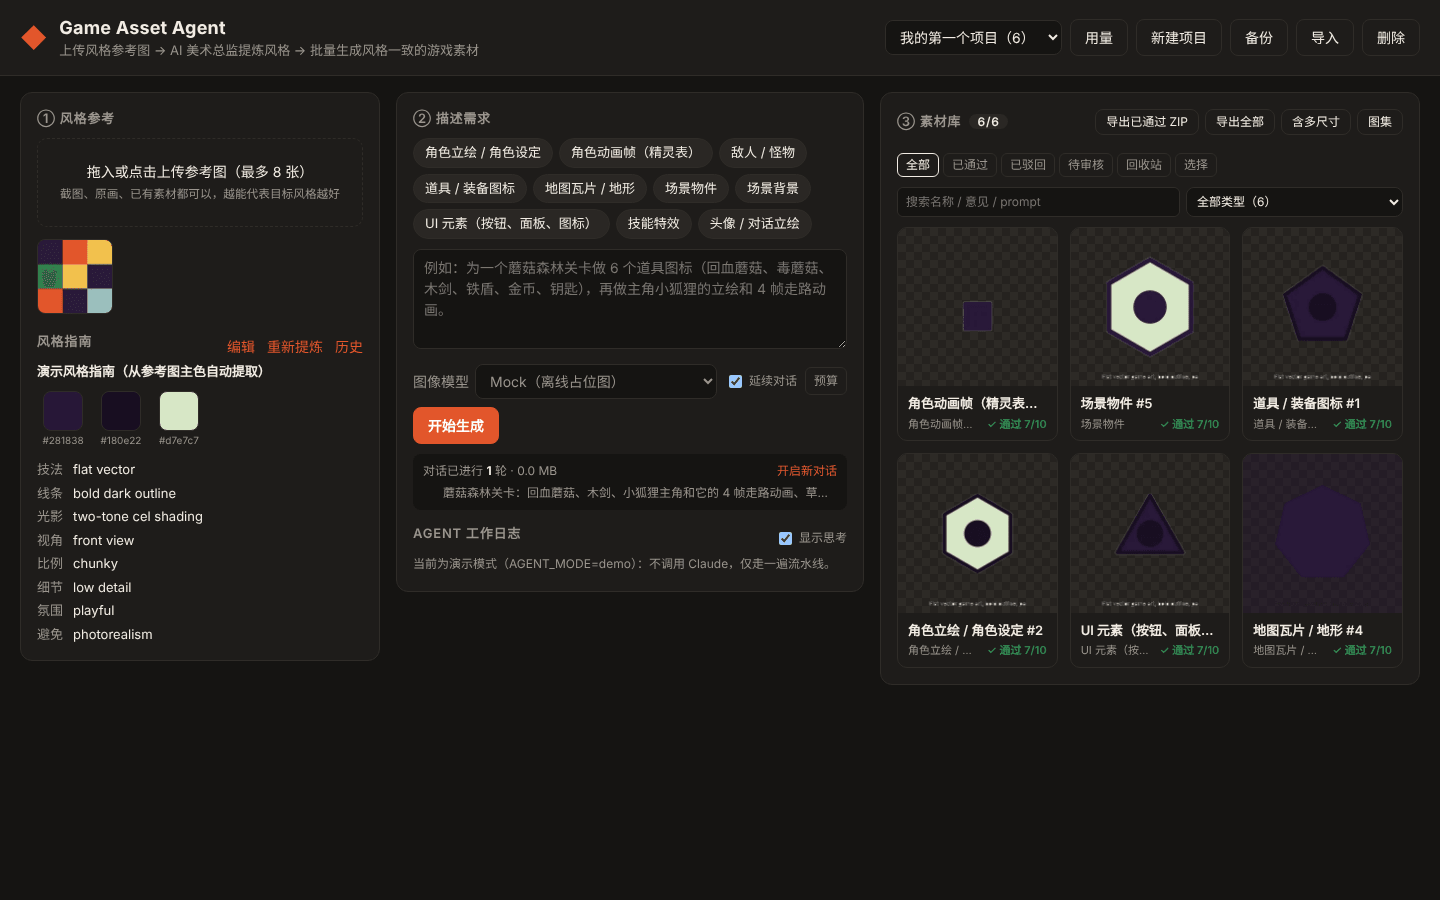
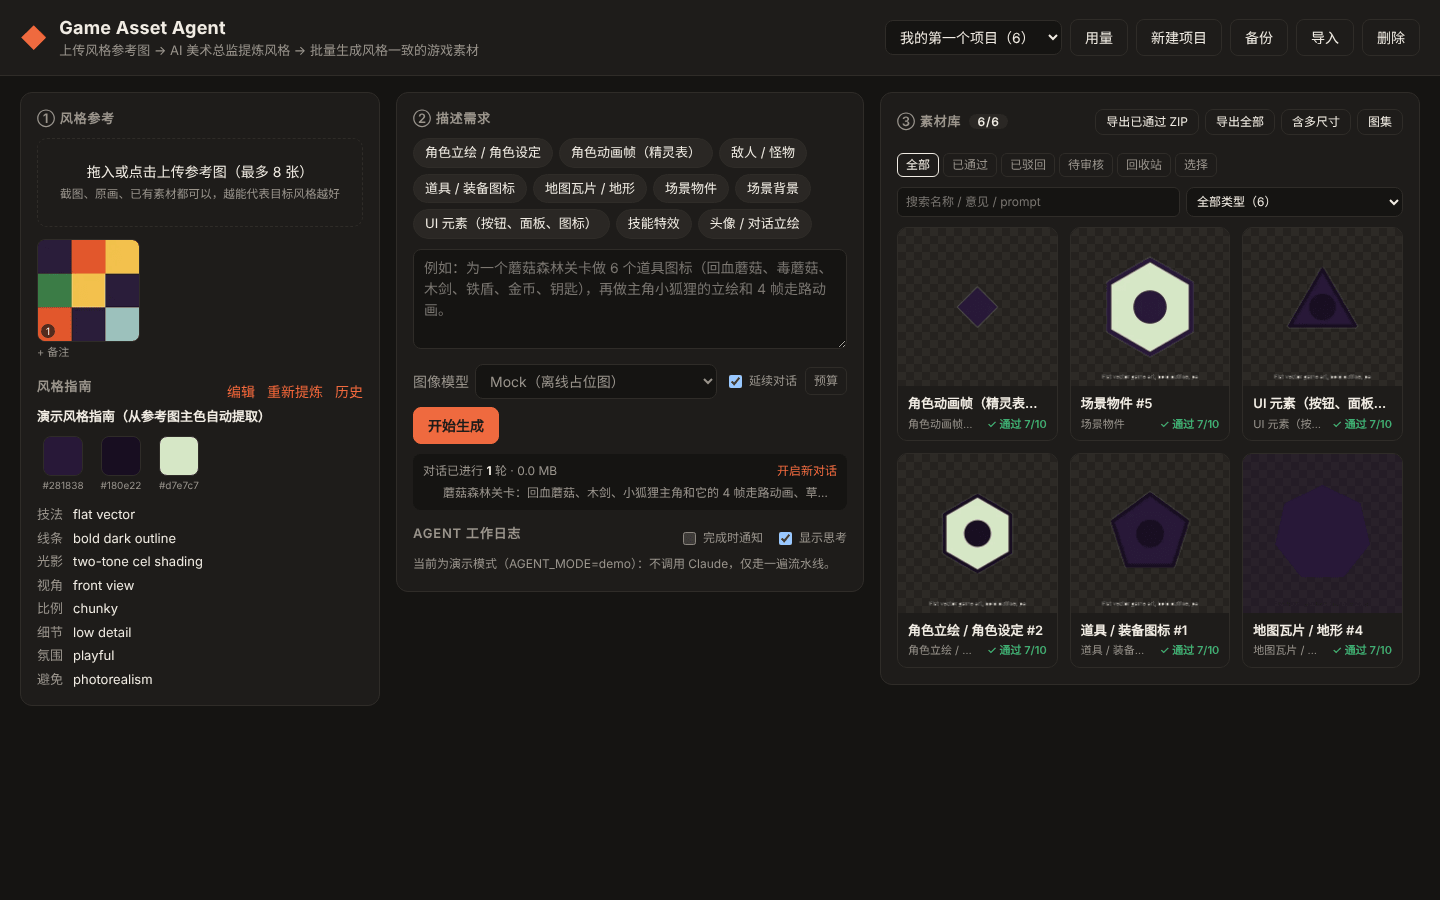
无障碍：axe-core 检查 8 个界面 × 浅色 / 深色，全部修到 0 违规
- 对比度：强调色、次要文字、成功 / 待审核色调整到 WCAG AA（4.5:1，覆盖面板、背景与标签底色）；深色主题主按钮改用深色文字；去掉写死的颜色改用变量
- 标签：Prompt 编辑框、色板编辑行的输入框与删除按钮补 aria-label
- 提示条移入 main 地标并设为 role=status / aria-live
- 参考图备注按钮补键盘焦点样式；README 截图随新配色更新

Claude-Session: https://claude.ai/code/session_01VuSUPtGhmSpaSQqTh4C8Ea

diff --git a/public/js/styleGuide.js b/public/js/styleGuide.js
@@ -20,10 +20,10 @@ const EMPTY_STYLE = {
 
 export function paletteRow(c) {
   return `<div class="pal-row">
-    <input type="color" value="${esc(c.hex)}" data-pal="pick" />
-    <input type="text" value="${esc(c.hex)}" data-pal="hex" maxlength="7" />
-    <input type="text" value="${esc(c.role)}" data-pal="role" placeholder="用途" />
-    <button type="button" class="btn link" data-pal="del" title="删除">×</button>
+    <input type="color" value="${esc(c.hex)}" data-pal="pick" aria-label="选择颜色" />
+    <input type="text" value="${esc(c.hex)}" data-pal="hex" maxlength="7" aria-label="颜色值（#RRGGBB）" />
+    <input type="text" value="${esc(c.role)}" data-pal="role" placeholder="用途" aria-label="颜色用途" />
+    <button type="button" class="btn link" data-pal="del" title="删除" aria-label="删除这个颜色">×</button>
   </div>`;
 }
 

diff --git a/public/css/style-panel.css b/public/css/style-panel.css
@@ -12,6 +12,7 @@
 .ref-note { all: unset; cursor: pointer; font-size: 11px; line-height: 1.3; color: var(--muted); display: -webkit-box; -webkit-line-clamp: 2; -webkit-box-orient: vertical; overflow: hidden; word-break: break-all; }
 .ref-note.has { color: var(--ink); }
 .ref-note:hover, .ref-note:focus-visible { color: var(--accent); }
+.ref-note:focus-visible { outline: 2px solid var(--accent); outline-offset: 2px; border-radius: 2px; }
 .ref { position: relative; aspect-ratio: 1; border-radius: 8px; overflow: hidden; border: 1px solid var(--line); }
 .ref img { width: 100%; height: 100%; object-fit: cover; display: block; }
 .ref button { position: absolute; top: 3px; right: 3px; width: 20px; height: 20px; border-radius: 50%; border: 0; background: rgba(0,0,0,.6); color: #fff; cursor: pointer; line-height: 1; opacity: 0; }

diff --git a/public/css/base.css b/public/css/base.css
@@ -4,13 +4,14 @@
   --bg: #f4f2ee;
   --panel: #ffffff;
   --ink: #1d1b19;
-  --muted: #77716a;
+  /* Text colours below reach WCAG AA (4.5:1) on --bg, --panel and --chip. */
+  --muted: #6b655e;
   --line: #e4dfd7;
-  --accent: #e2562b;
+  --accent: #b9431f;
   --accent-ink: #ffffff;
-  --ok: #2f8f5b;
+  --ok: #24734a;
   --bad: #c0392b;
-  --pending: #b7871b;
+  --pending: #8a6410;
   --chip: #f0ebe3;
   --check-a: #ece8e1;
   --check-b: #f8f6f2;
@@ -26,6 +27,11 @@
     --muted: #9b948a;
     --line: #2f2c28;
     --chip: #2a2724;
+    --accent: #ef6a3f;
+    --accent-ink: #1d1b19;
+    --ok: #3fae73;
+    --bad: #ef7067;
+    --pending: #d6a332;
     --check-a: #25221f;
     --check-b: #2d2a26;
     color-scheme: dark;

diff --git a/public/css/viewer.css b/public/css/viewer.css
@@ -45,8 +45,8 @@ dialog::backdrop { background: rgba(0,0,0,.55); }
 .size-preview img { image-rendering: pixelated; max-width: 100%; }
 .tile-check { display: grid; gap: 8px; }
 .tile-grid { --n: 3; width: 100%; aspect-ratio: 1; border-radius: 8px; border: 1px solid var(--line); background-size: calc(100% / 3) calc(100% / 3); background-repeat: repeat; image-rendering: pixelated; }
-.seam-result.ok { color: #2e9e5b; }
-.seam-result.bad { color: #d64545; }
+.seam-result.ok { color: var(--ok); }
+.seam-result.bad { color: var(--bad); }
 .palette-check { display: grid; gap: 6px; }
 .pal-result.ok { color: var(--ok); }
 .pal-result.warn { color: var(--pending); }

diff --git a/public/js/viewer/prompt.js b/public/js/viewer/prompt.js
@@ -5,7 +5,7 @@ import { attachJob } from "../run.js";
 
 export const html = (a) => `<form class="prompt-form" data-regen="${a.id}">
       <div class="sizes-head"><b>Prompt</b><span class="muted">可直接修改后重生成</span></div>
-      <textarea name="prompt" rows="5" spellcheck="false">${esc(a.prompt)}</textarea>
+      <textarea name="prompt" rows="5" spellcheck="false" aria-label="Prompt">${esc(a.prompt)}</textarea>
       <button class="btn ghost" type="submit" title="用编辑后的 prompt 直接调用图像模型生成新版本，不经过 Claude">直接重生成（不经过 Agent）</button>
     </form>`;
 

diff --git a/public/index.html b/public/index.html
@@ -128,6 +128,7 @@
       </div>
       <div id="assets" class="assets"></div>
     </section>
+    <div id="toast" class="toast" role="status" aria-live="polite" hidden></div>
   </main>
 
   <dialog id="viewer">
@@ -151,7 +152,6 @@
     <div class="usage-body"><h3>风格指南历史</h3><div id="historyBody"></div></div>
   </dialog>
 
-  <div id="toast" class="toast" hidden></div>
   <script type="module" src="/js/main.js"></script>
 </body>
 </html>

diff --git a/ROADMAP.md b/ROADMAP.md
@@ -66,5 +66,5 @@
 - [x] 素材改名
 - [x] 批量重画：已驳回的素材带着各自的意见一次交给 Agent 重画
 - [x] 任务完成提醒：标签页标题提示 + 可选浏览器通知
-- [ ] 无障碍检查（axe-core）与修复
+- [x] 无障碍检查（axe-core）与修复
 - [ ] English README
